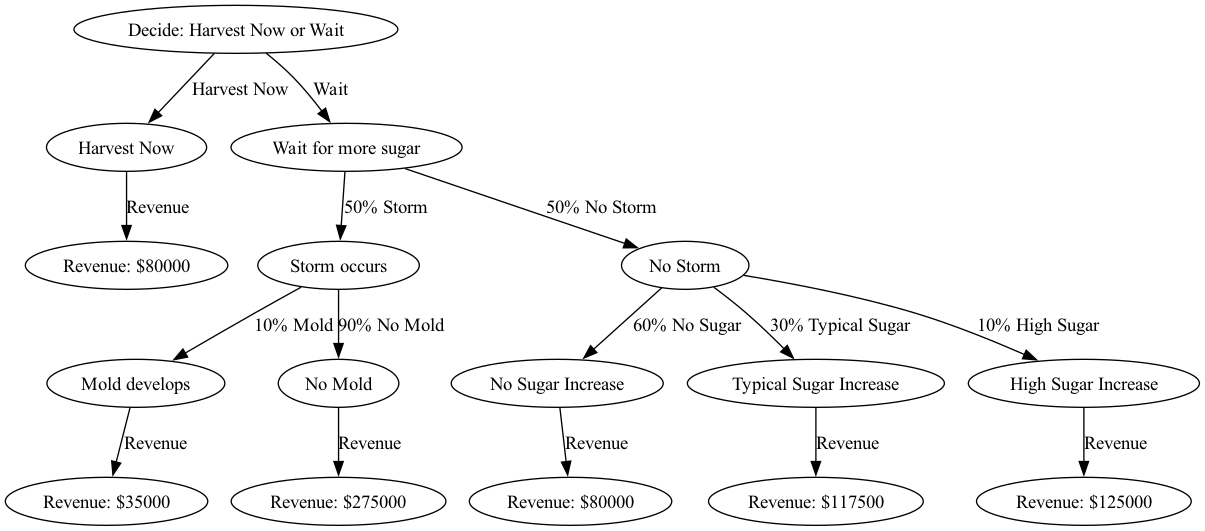
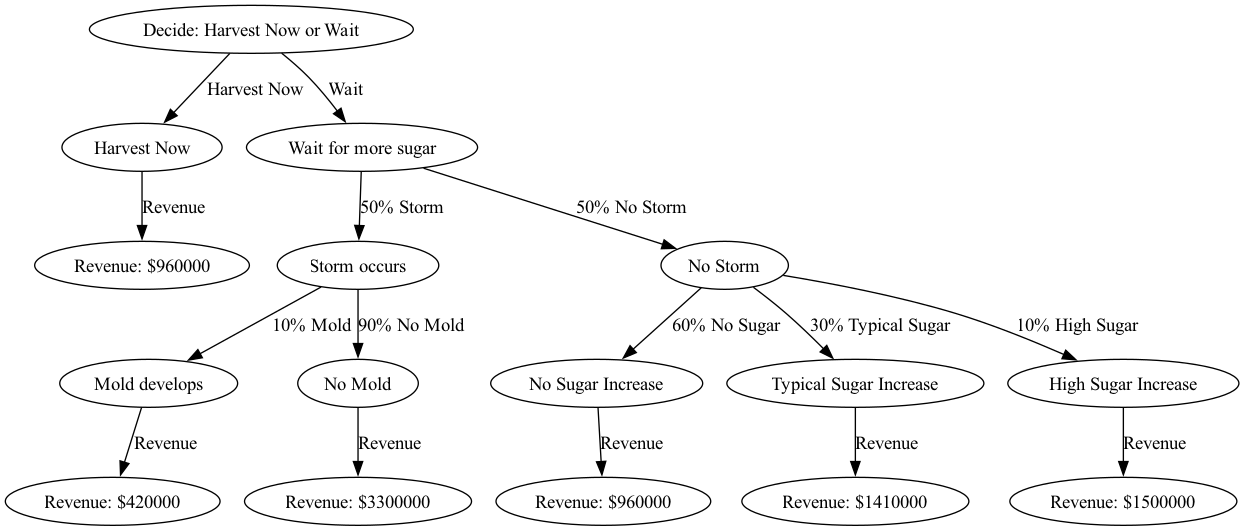
fix one case has 12 bottles, fix the numbers by mutiply by 12

diff --git a/Task2.py b/Task2.py
@@ -35,12 +35,12 @@ dot.node('K', 'Typical Sugar Increase')
 dot.node('L', 'High Sugar Increase')
 
 # Add revenue nodes with updated values
-dot.node('M', 'Revenue: $80000')
-dot.node('N', 'Revenue: $35000')
-dot.node('O', 'Revenue: $275000')
-dot.node('P', 'Revenue: $80000')
-dot.node('Q', 'Revenue: $117500')
-dot.node('R', 'Revenue: $125000')
+dot.node('M', 'Revenue: $960000')
+dot.node('N', 'Revenue: $420000')
+dot.node('O', 'Revenue: $3300000')
+dot.node('P', 'Revenue: $960000')
+dot.node('Q', 'Revenue: $1410000')
+dot.node('R', 'Revenue: $1500000')
 
 # Add edges for the decision-making process
 dot.edge('A', 'B', label='Harvest Now')

diff --git a/Task1.py b/Task1.py
@@ -20,12 +20,12 @@ dot.node('I', 'Typical Sugar Increase')
 dot.node('J', 'High Sugar Increase')
 
 # Revenue calculations
-dot.node('K', 'Revenue: $80000')
-dot.node('L', 'Revenue: $35000')
-dot.node('M', 'Revenue: $275000')
-dot.node('N', 'Revenue: $80000')
-dot.node('O', 'Revenue: $117500')
-dot.node('P', 'Revenue: $125000')
+dot.node('K', 'Revenue: $960000')
+dot.node('L', 'Revenue: $420000')
+dot.node('M', 'Revenue: $3300000')
+dot.node('N', 'Revenue: $960000')
+dot.node('O', 'Revenue: $1410000')
+dot.node('P', 'Revenue: $1500000')
 
 # Connect nodes with edges
 dot.edge('A', 'B', label='Harvest Now')
